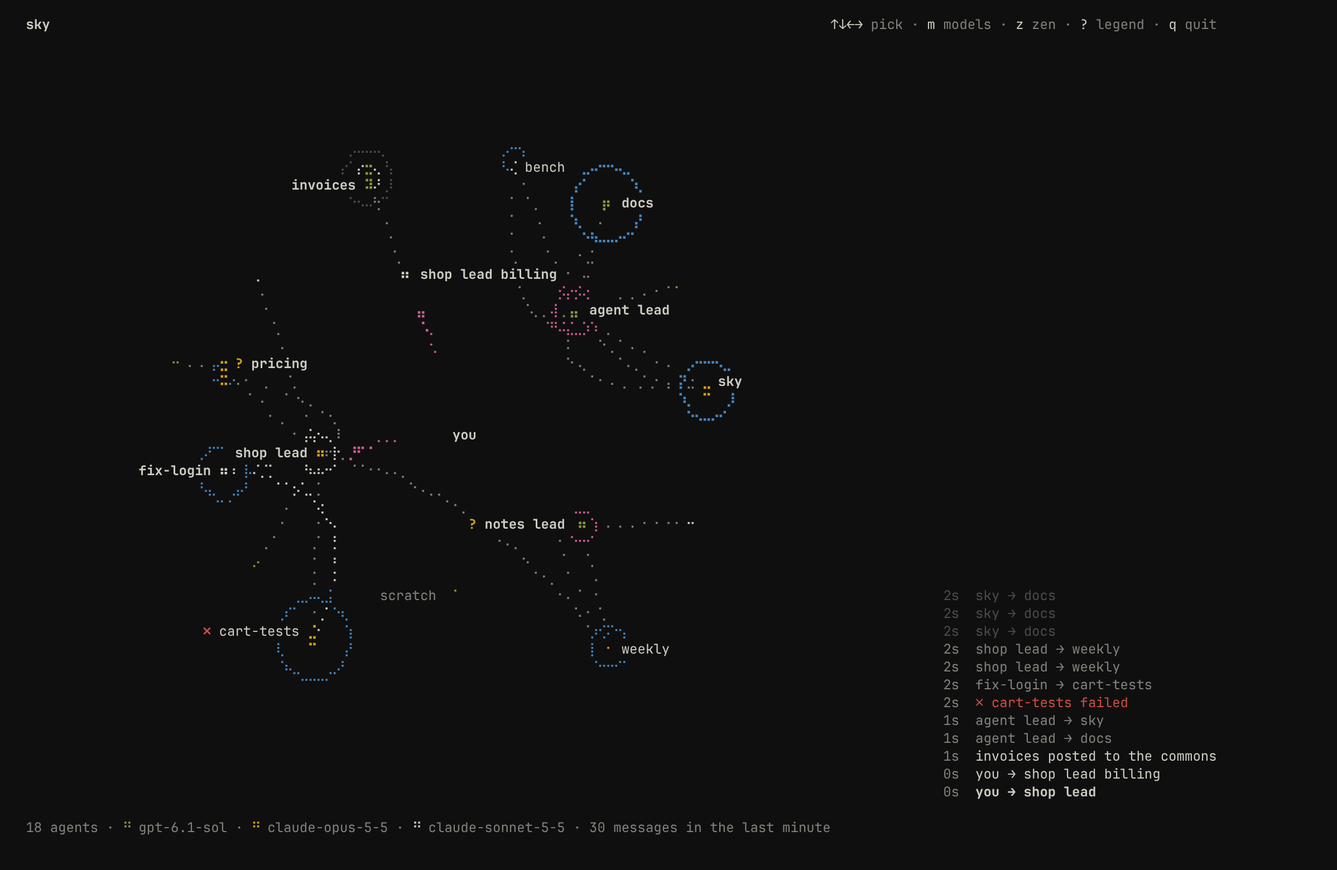
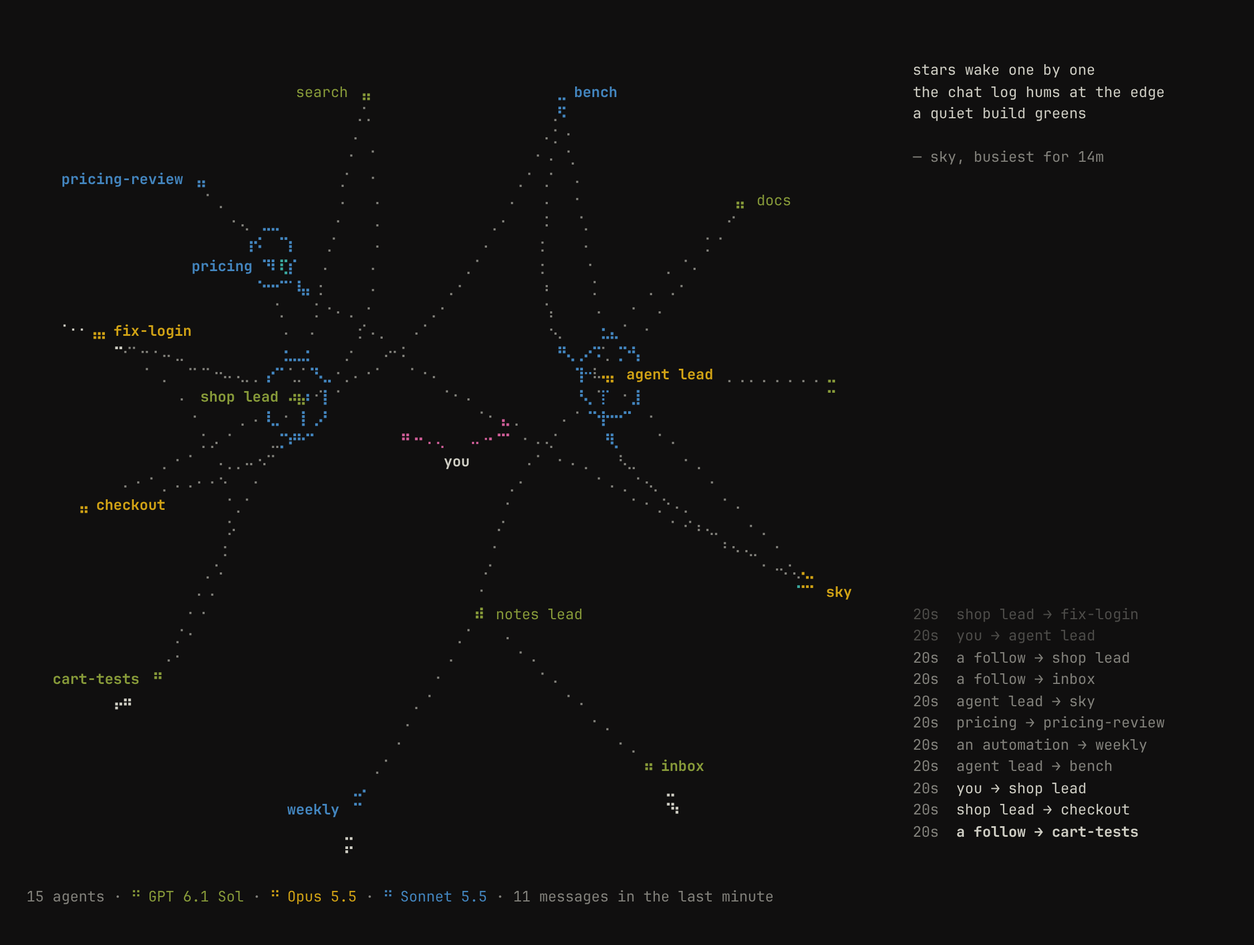
Sky: the haiku reads as text, the log keeps its margin, models colour names
D3: the haiku's words fade up from faint through muted to the text's own
weight, as a fresh chat-log line does, and its signature is muted rather
than faint: faint is the visual system's weight for structure, never for
words to read.

D4: the chat log beside the sky is as wide as the haiku above it, and
its time starts in the haiku's first column, so both keep one margin
from the pane's edge; it used to run two cells further, to the edge.

D5: on `m`, every star is a bold blob in its model's colour, resting
ones too, and its name takes the colour as well; the footer names each
model in its colour. The six hues come before their bright twins, which
many themes draw as a duller shade of the same hue or as a gray, so the
third model no longer looks like the first.

Claude-Session: https://claude.ai/code/session_013jkdGEUbnoEt6cpedcLYEa

diff --git a/sonny/src/sky.rs b/sonny/src/sky.rs
@@ -176,17 +176,20 @@ const FAILED: Color = Color::Red;
 const AGENTS: Color = Color::Blue;
 const YOU: Color = Color::Magenta;
 /// The models' colours on `m`, an exception to one meaning per hue as the
-/// usage chart's are: telling models apart needs a fill each. Hues the
-/// sky's messages and tools don't take first, then the bright twins.
+/// usage chart's are: telling models apart needs a fill each. The six
+/// hues first, those the sky's messages and tools don't take leading, and
+/// only then the bright twins, which many themes draw as a duller shade of
+/// the same hue (Flexoki's bright green is an olive beside its green) or
+/// as grays (Solarized), so two models in neighbouring hues stay apart.
 const MODEL_HUES: [Color; 8] = [
     Color::Green,
     Color::Yellow,
-    Color::LightGreen,
-    Color::LightYellow,
+    Color::Blue,
+    Color::Magenta,
+    Color::Cyan,
+    Color::Red,
     Color::LightBlue,
     Color::LightMagenta,
-    Color::LightCyan,
-    Color::LightRed,
 ];
 
 /// What the follow brings the view.
@@ -1440,8 +1443,9 @@ impl View {
     }
 
     /// The haiku's rows: its three lines streaming in a word at a time,
-    /// muted, each word up from faint, then its writer signed in faint;
-    /// the one before all faint as it fades; in a replay, the one up then.
+    /// in the text's own weight, each word up from faint through muted,
+    /// then its writer signed muted; the one before all faint as it fades;
+    /// in a replay, the one up then.
     fn haiku(&self, now: Instant) -> Vec<Line<'static>> {
         let showing = self.verse.as_ref().filter(|verse| now >= verse.from);
         let (verse, faded) = match (showing, &self.fading) {
@@ -1464,9 +1468,10 @@ impl View {
                 if !faded && t < shows {
                     continue;
                 }
-                let ink = match faded || t < shows + WORD {
-                    true => Ink::Faint,
-                    false => Ink::Muted,
+                let ink = match () {
+                    _ if faded || t < shows + WORD / 2.0 => Ink::Faint,
+                    _ if t < shows + WORD => Ink::Muted,
+                    _ => Ink::Plain,
                 };
                 if !spans.is_empty() {
                     spans.push(Span::raw(" "));
@@ -1485,8 +1490,9 @@ impl View {
                 .saturating_duration_since(verse.since);
             let minutes = (held.as_secs() / 60).max(1);
             lines.push(Line::default());
+            let ink = if faded { Ink::Faint } else { Ink::Muted };
             for signed in signature(&name, minutes, haiku::WIDTH) {
-                lines.push(Line::from(Span::styled(signed, Ink::Faint.style())));
+                lines.push(Line::from(Span::styled(signed, ink.style())));
             }
         }
         lines
@@ -3049,8 +3055,8 @@ impl View {
             // What needs the person or failed, still in its colour; a
             // working star breathes. As in 0.7.0, those are blobs, and so
             // is one a message lights; one at rest is a single dot.
-            // On `m`, each in its model's colour instead, bold while it
-            // works.
+            // On `m`, each a blob in its model's colour instead, bold, so a
+            // hue reads on a star at rest too.
             let hue = (self.models)
                 .then(|| hues.get(agent.model_or_unknown()).copied())
                 .flatten();
@@ -3061,10 +3067,7 @@ impl View {
                 // The stop holds the rest still, as it reaches them; what
                 // needs the person or failed keeps its colour.
                 (_, None | Some(State::Working)) if stilled => (Ink::Muted, false),
-                (Some(hue), state) => {
-                    let big = state.is_some() || agent.glow(now) > 0.4;
-                    (Ink::Color(hue, big), big)
-                }
+                (Some(hue), _) => (Ink::Color(hue, true), true),
                 (None, Some(State::Working)) => {
                     (shade.breathe(agent.breath(now, self.opened)), true)
                 }
@@ -3149,7 +3152,12 @@ impl View {
                 // The pick reversed, as a picker's selection is.
                 (true, _) => Style::default().reversed(),
                 (_, true) => Style::default().bold(),
-                _ => name_style(agent.state(), agent.glow(now)),
+                // On `m`, the name in its star's colour too: a star's mark
+                // is a few dots, its name the most of it there is.
+                _ => match hues.get(agent.model_or_unknown()) {
+                    Some(&hue) => name_style(agent.state(), 1.0).fg(hue),
+                    None => name_style(agent.state(), agent.glow(now)),
+                },
             };
             if !sky.label(agent.at, mark, &short(&agent.name), style)
                 && agent.state() == Some(State::NeedsYou)
@@ -3191,7 +3199,10 @@ impl View {
                     // The haiku at the top, in the blank the log leaves.
                     // A blank under its newest line, as over the haiku: two
                     // from the footer, as two from the key hints.
-                    let mut column = self.ticked(now, LOG_COLS, rows.saturating_sub(1), true);
+                    // As wide as the haiku over it, so both keep the same
+                    // margin from the pane's edge.
+                    let room = rows.saturating_sub(1);
+                    let mut column = self.ticked(now, haiku::WIDTH, room, true);
                     column.push(Line::default());
                     for (row, line) in self.haiku(now).into_iter().enumerate() {
                         let row = HAIKU_TOP + row;
@@ -3275,13 +3286,15 @@ impl View {
                 _ => Ink::Muted.style(),
             };
             // A replay says when it happened, as a chat log's time does.
+            // Its time starts where the haiku does, two cells from its words.
             let when = match written {
                 Some(written) => format!("{} ", clock(*written)),
-                None => format!("{:>4}  ", ago(now, *at)),
+                None => format!("{:>3}  ", ago(now, *at)),
             };
+            let room = cols.saturating_sub(when.width());
             lines.push(Line::from(vec![
                 Span::styled(when, age),
-                Span::styled(cut(text, cols.saturating_sub(6)), words),
+                Span::styled(cut(text, room), words),
             ]));
         }
         if let Some(why) = &self.down {
@@ -3672,7 +3685,7 @@ impl View {
                 }
                 spans.push(Span::raw(" ·").dim());
                 spans.push(Span::raw(" ⠛").fg(hue));
-                spans.push(Span::raw(format!(" {model}")).dim());
+                spans.push(Span::raw(format!(" {model}")).fg(hue));
             }
         }
         let states = match self.models {
@@ -6810,6 +6823,72 @@ mod tests {
             .unwrap();
         view.drain();
         assert!(view.copied("shop.lead.side").is_none());
+    }
+
+    #[tokio::test]
+    async fn the_haiku_reads_as_text_the_log_keeps_its_margin_and_models_colour_names() {
+        let (mut view, send) = view();
+        let long = "shop.a-long-task-name-for-the-log";
+        send.send(Feed::Roll(vec![
+            json!({"name": "shop.lead", "model": "openai/m1"}),
+            json!({"name": long, "created_by": "shop.lead", "model": "anthropic/m2"}),
+        ]))
+        .unwrap();
+        send.send(Feed::Ready).unwrap();
+        send.send(Feed::Live(
+            json!({"event": "accepted", "bot": long, "turn": 1,
+            "data": {"from": {"bot": "shop.lead"}}}),
+        ))
+        .unwrap();
+        view.drain();
+        let now = Instant::now();
+        view.verse = Some(Verse {
+            by: "shop.lead".into(),
+            lines: vec!["stars wake one by one".into(), "b".into(), "c".into()],
+            from: now - Duration::from_secs(60),
+            written: now - Duration::from_secs(60),
+            since: now - Duration::from_secs(600),
+            until: None,
+            story: None,
+        });
+        for note in view.ticker.iter_mut() {
+            note.at = now - Duration::from_secs(20);
+        }
+        // Once in, the haiku's words are in the text's own weight.
+        let haiku = view.haiku(now);
+        assert!(
+            (haiku[0].spans.iter())
+                .filter(|span| !span.content.trim().is_empty())
+                .all(|span| span.style == Style::default()),
+            "{:?}",
+            haiku[0]
+        );
+        // The log's time starts where the haiku does, and its words end
+        // within the haiku's width: the same margin from the edge.
+        let card = text(&view.card(140, 40));
+        let rows: Vec<&str> = card.lines().collect();
+        let col = |row: &str, at: usize| row[..at].width();
+        let poem = rows
+            .iter()
+            .find_map(|row| Some(col(row, row.find("stars wake")?)));
+        let start = poem.expect("the haiku beside the sky");
+        let logged = (rows.iter())
+            .find(|row| row.contains("20s  shop lead → "))
+            .expect("the log line");
+        let time = logged.find("20s").unwrap();
+        assert_eq!(col(logged, time), start, "{logged}");
+        assert!(
+            logged.trim_end().width() <= start + haiku::WIDTH,
+            "{logged}"
+        );
+        // On `m`, a name takes its star's colour.
+        assert!(view.press(ratatui::crossterm::event::KeyCode::Char('m')));
+        let hues: HashMap<String, Color> = view.hues().into_iter().collect();
+        let lines = view.card(140, 40);
+        let named = (lines.iter().flat_map(|line| &line.spans))
+            .find(|span| span.content.contains("lead"))
+            .expect("the lead's name");
+        assert_eq!(named.style.fg, hues.get("m1").copied(), "{named:?}");
     }
 
     #[tokio::test]

diff --git a/sonny/FEATURES.md b/sonny/FEATURES.md
@@ -143,7 +143,7 @@ names it: upgrade step `ID`. Both name the release they are deleted in.
 | Goals: keep an agent working until a check command passes | experimental | added 10-29 #341; `/goal WHAT` asks the agent to set one, `/goal` shows, `/goal clear` clears 10-30 #397; how a goal ended survives a lookout restart, and a turn that ends during a check is checked after it 10-31; a check waits for a place among the processes Sonny runs for agents (`sonny.tool_processes`), within its timeout 10-31 | Autonomy with a check, not a model's say-so | ? |
 | MCP servers through one `exec` script tool (`/mcp`, `sonny mcp tool`) | experimental | added 10-29 #321; saved files kept a week 10-29 #327; four scripts at once 10-29 #334; brought in from Claude Code, Codex, OpenCode and Kiro (`sonny mcp import`, offered by setup) 10-30 #415; each call approved on its own by Codex's `approval_mode` (default `auto`), not the script, 10-30 #393; bounded as it runs (output 1 MB head and tail, 8 calls in flight, 16 MB results, one deadline from the call, colliding tool names refused, cache 0600 by digest) 10-31 #474; runs in the tool host, apart from the lookout, 10-31 #481; `image()` shows the model the picture, in order with the text, not a saved file's path, 10-31 #494; a script whose turn was paused or ended makes no tool call and stores nothing from then on, checked as each call is about to reach its server, and its run ends the moment it is stopped rather than at a look every 50 ms (a read answered just after a pause let the script make its next call) 11-05 | The person's MCP servers without loading every tool's schema; per-call approval as Codex does, so reads run and only risky calls ask | ? |
 | Commons: threads every agent of every project reads and writes (`commons` tool, `/commons`); `[sonny] commons = false` turns it off; a new thread invites agents whose turns touch its title, at random and all at once, as many as fill three seats with 90% odds at the week's answer rate (Laplace), at most the day's threads (every tenth thread one invite is a golden ticket to any agent, paying twice, its time the agent's own), the square root of the week's agents threads a day (three at least) plus one per answered thread that week (twice that at most), none from a thread an invited turn starts; an invite pays for its turn and, for the first three to reply, 1M tokens in its thread, replies waking them while they last; posting in a thread subscribes the agent to it in the lookout (`commons.THREAD`), which tells it of new posts at most once every 15 minutes (`[sonny.sources.commons] digest`, which takes `steer` too), and removing that leaves the thread; `commons_invites`, `commons_invite_tokens` and `sonny.sources.commons.digest` in /config | experimental | added 10-30 #392; on/off setting and invites 10-30; an empty commons counts 0, not null 10-30; each post names its model as people say it (`Opus 5.5`, `GPT 6.1 Sol`) 10-31; invites a day grow with the square root of the week's agents, golden tickets pay twice as free time 10-31; invites overbook to fill three seats at the week's answer rate 10-31; replies reach posters through lookout subscriptions with an hourly digest instead of attach notes, and agents that had posted are subscribed once on upgrade 10-31; the commons is set as an ordinary source, `[sonny.sources.commons] digest` (15 minutes) and `steer` replacing `[sonny] commons_digest` (an hour), moved once on upgrade 11-01; an agent that removed its subscription to a thread is no longer woken by the thread's replies through its invite's tokens, which ignored the removal (H12) 11-05 | A pull-only place for agents to work together across projects, even when it isn't immediately productive; reads are counted so later we can see what mattered | ? |
-| `/sky`: every agent the daemon keeps, drawn as a sky in the pane: leads on the inner ring, the agents each made fanned out behind it, the person in the middle, on a circle; a calm window to watch live: dim lines for who made whom and a dim curve for every pair that has talked, past turns and live (the last 96 pairs, as in 0.7.0), denser and brighter the more the pair talked this hour, a message as a spark (blue between agents, magenta with you) that bursts round its sender and its receiver, sized by how much the agent is messaged, a commons post as a small ripple, a tool call as a cyan twinkle in a shape for its kind; working agents breathe (4.6s) as a block, idle ones rest as a single dot; a yellow `?` or red `✗` by the name of one that needs you or failed; a chat log beside the sky when wide (under it when narrow), newest at the bottom, fading as it rises; `?` swaps it for a legend and stats; `z` zen hides the log, footer and every name but what needs you or failed; `m` colours each agent by its model in place, the footer naming the colours; arrows pick a star and Enter centres on it, rings by hops, the log filtered, stars gliding to their places, Esc back; under 60 columns or 24 rows a list instead; `r` replays the last hour (space pause, ←→ step, `[` `]` speed, Esc live); `sonny sky [--center NAME] [--replay [WHEN]]` draws it on its own | experimental | added 10-30 #457; on its own in the whole terminal, `sonny sky` 10-30; lines at full weight, states, tool shapes, the list for small panes, a legend on `?` 10-30; back on the visual system: magenta to and from you, blue between agents, the commons ripple without a hue, lines in the measured muted gray, `sonny sky` asks the theme and honours `NO_COLOR` 10-31; the agreed sky design, step 1: hues down to needs-you and failed (plus the cyan twinkle), a measured faint weight for structure (in the visual system), short trails, the side chat log, stats on `?`, breathing, zen on `z`, names kept clear of each other and of stars 10-31; step 2: lenses on Tab, centring on any agent (arrows and Enter, `--center`) 10-31; step 3: an ellipse that fills the pane (at most twice as wide as high), arms in the order projects started and as wide as the square root of their size, layout changes gliding over a third of a second 10-31; the receive flash back, sized by how much the agent is being messaged (a halo in braille dots whatever the pane, six off its star for one message, its area growing with the heat: 6, 8.5, 12, 17 dots, fading in place), and the commons ripple sized by how many agents its thread reaches (George, 10-31) 10-31; step 4: folding at scale, a star only for who needs you, failed, works, glows or leads, as many as the pane has room for, the rest a faint dot each so a cloud's density says its size, counts only on the biggest clouds, names spaced a row apart and placed beside, over or under their star, leads of the biggest projects named first, the newest dozen sparks; 10,000 agents draw in about 3 ms a frame (was 6.6) 10-31; the receive burst moves as in 0.7.0 again (pops out, shrinks into its star, fades), sized from 0.7.0's for one message up to 0.7.0's commons ripple at most (5 dots, growing by the square root of two each time the heat doubles, 24 at most), and the side chat log at most 12 lines tall (George, 10-31) 10-31; back toward 0.7.0 (George, 10-31): every pair that has talked keeps its curve again at 0.7.0's weight, an agent at rest is a dot and a block only while it works or is lit, the sender bursts as well as the receiver; one view, its curves weighted by the hour (past turns counted by the time the daemon wrote them), the talk and models lenses gone, `m` colouring agents by model instead; sparks and bursts coloured where 0.7.0 coloured them, in the visual system's hues (blue between agents, magenta with you); a circle again; a clear cell either side of each name (George, 10-31) 10-31; step 5: replay, `r` or `sonny sky --replay [WHEN]`, from the daemon's event times (`follow` from `since_ms`), the sky starting from who was here then, all idle, playing what was said and done eight times as fast, the chat log saying when, a replay line in the footer 10-31; filled to the rim (George, 10-31): agents that made none on the outer edge as a tree's leaves (d3's cluster layout), every star named where there is room, the working and lit first, two cells between names on a row, stretched up to twice as wide as high to fill a wide pane, throwaway copies (the approver's judges, suggestions) folded into the agent that made them, a judge's question drawn from the edge as "a judge" 10-31; the replay's tape stays within its bound while the past loads and while paused, a frame takes in at most half a frame's work, the hour's pair counts kept as messages come rather than counted again each frame 10-31; step 6: a haiku from the busiest agent (messages and tool calls over 10 minutes, passing only to one 50% busier after a 10-minute hold), written by a copy of it allowed no tool, streamed a word at a time atop the log or top right in zen, signed, 8 a day at most, kept in `~/.agent/sonny/haiku.json` so every sky shows the same one, `sky_haikus`/`sky_haiku_window`/`sky_haiku_margin`/`sky_haiku_hold` in `[sonny]` 10-31; a replay draws the curve of every pair that had talked before it from the first frame (the last message of each, read from the turns kept, as live), and shows the haiku up at its time, the day's haikus kept in the file (George, 10-31) 10-31; schedules: a tick just outside each agent a trigger wakes, lit as its next run nears, a spark and a log line when one is made, `?` says what is next up; who it comes from: a reviewer's no streaks red onto the agent, a hand-off yellow, the judge's own prompt not drawn; commons invites from the thread's starter, margin notes from you, a goal pulses; the haiku and the log keep two blank rows from the key hints and the footer; a haiku signature too long for its column breaks after the name, the time on the row under it where the name starts, so "busiest for" is never cut (George, 11-02) 11-02; a haiku the copy did not write (an empty or refused reply, a turn that failed or ran long, a daemon it could not reach) leaves the one before showing in every sky, its claim still counted and not tried again that hold, and `haiku.json` says why under `unwritten`; a file an earlier claim had emptied shows the last haiku of the day (Sky went blank and stayed so, George, 11-03; D1) 11-05 | George wanted to see the population of agents and how they relate, lighting up as they talk, while working; it reads only what the daemon already tells any client (`bots`, `follow` of every agent); dim braille all but vanished in some themes and a small pane had no room for a sky (btop changes layout by size); George keeps it open in the background to watch live and wanted it calm, with a game-style chat log beside it (Weiser and Brown's calm technology; Bartram et al.: slow motion distracts least); George wanted lenses on the same data and to see the world from a busy lead's side (Yee et al. 2001, animated radial re-centring; Furnas, focus plus context); replay, the sky design's ninth call, plays back what happened while George was away, as a game's replay does, which needed only when each event was written from the daemon | ? |
+| `/sky`: every agent the daemon keeps, drawn as a sky in the pane: leads on the inner ring, the agents each made fanned out behind it, the person in the middle, on a circle; a calm window to watch live: dim lines for who made whom and a dim curve for every pair that has talked, past turns and live (the last 96 pairs, as in 0.7.0), denser and brighter the more the pair talked this hour, a message as a spark (blue between agents, magenta with you) that bursts round its sender and its receiver, sized by how much the agent is messaged, a commons post as a small ripple, a tool call as a cyan twinkle in a shape for its kind; working agents breathe (4.6s) as a block, idle ones rest as a single dot; a yellow `?` or red `✗` by the name of one that needs you or failed; a chat log beside the sky when wide (under it when narrow), newest at the bottom, fading as it rises; `?` swaps it for a legend and stats; `z` zen hides the log, footer and every name but what needs you or failed; `m` colours each agent by its model in place, the footer naming the colours; arrows pick a star and Enter centres on it, rings by hops, the log filtered, stars gliding to their places, Esc back; under 60 columns or 24 rows a list instead; `r` replays the last hour (space pause, ←→ step, `[` `]` speed, Esc live); `sonny sky [--center NAME] [--replay [WHEN]]` draws it on its own | experimental | added 10-30 #457; on its own in the whole terminal, `sonny sky` 10-30; lines at full weight, states, tool shapes, the list for small panes, a legend on `?` 10-30; back on the visual system: magenta to and from you, blue between agents, the commons ripple without a hue, lines in the measured muted gray, `sonny sky` asks the theme and honours `NO_COLOR` 10-31; the agreed sky design, step 1: hues down to needs-you and failed (plus the cyan twinkle), a measured faint weight for structure (in the visual system), short trails, the side chat log, stats on `?`, breathing, zen on `z`, names kept clear of each other and of stars 10-31; step 2: lenses on Tab, centring on any agent (arrows and Enter, `--center`) 10-31; step 3: an ellipse that fills the pane (at most twice as wide as high), arms in the order projects started and as wide as the square root of their size, layout changes gliding over a third of a second 10-31; the receive flash back, sized by how much the agent is being messaged (a halo in braille dots whatever the pane, six off its star for one message, its area growing with the heat: 6, 8.5, 12, 17 dots, fading in place), and the commons ripple sized by how many agents its thread reaches (George, 10-31) 10-31; step 4: folding at scale, a star only for who needs you, failed, works, glows or leads, as many as the pane has room for, the rest a faint dot each so a cloud's density says its size, counts only on the biggest clouds, names spaced a row apart and placed beside, over or under their star, leads of the biggest projects named first, the newest dozen sparks; 10,000 agents draw in about 3 ms a frame (was 6.6) 10-31; the receive burst moves as in 0.7.0 again (pops out, shrinks into its star, fades), sized from 0.7.0's for one message up to 0.7.0's commons ripple at most (5 dots, growing by the square root of two each time the heat doubles, 24 at most), and the side chat log at most 12 lines tall (George, 10-31) 10-31; back toward 0.7.0 (George, 10-31): every pair that has talked keeps its curve again at 0.7.0's weight, an agent at rest is a dot and a block only while it works or is lit, the sender bursts as well as the receiver; one view, its curves weighted by the hour (past turns counted by the time the daemon wrote them), the talk and models lenses gone, `m` colouring agents by model instead; sparks and bursts coloured where 0.7.0 coloured them, in the visual system's hues (blue between agents, magenta with you); a circle again; a clear cell either side of each name (George, 10-31) 10-31; step 5: replay, `r` or `sonny sky --replay [WHEN]`, from the daemon's event times (`follow` from `since_ms`), the sky starting from who was here then, all idle, playing what was said and done eight times as fast, the chat log saying when, a replay line in the footer 10-31; filled to the rim (George, 10-31): agents that made none on the outer edge as a tree's leaves (d3's cluster layout), every star named where there is room, the working and lit first, two cells between names on a row, stretched up to twice as wide as high to fill a wide pane, throwaway copies (the approver's judges, suggestions) folded into the agent that made them, a judge's question drawn from the edge as "a judge" 10-31; the replay's tape stays within its bound while the past loads and while paused, a frame takes in at most half a frame's work, the hour's pair counts kept as messages come rather than counted again each frame 10-31; step 6: a haiku from the busiest agent (messages and tool calls over 10 minutes, passing only to one 50% busier after a 10-minute hold), written by a copy of it allowed no tool, streamed a word at a time atop the log or top right in zen, signed, 8 a day at most, kept in `~/.agent/sonny/haiku.json` so every sky shows the same one, `sky_haikus`/`sky_haiku_window`/`sky_haiku_margin`/`sky_haiku_hold` in `[sonny]` 10-31; a replay draws the curve of every pair that had talked before it from the first frame (the last message of each, read from the turns kept, as live), and shows the haiku up at its time, the day's haikus kept in the file (George, 10-31) 10-31; schedules: a tick just outside each agent a trigger wakes, lit as its next run nears, a spark and a log line when one is made, `?` says what is next up; who it comes from: a reviewer's no streaks red onto the agent, a hand-off yellow, the judge's own prompt not drawn; commons invites from the thread's starter, margin notes from you, a goal pulses; the haiku and the log keep two blank rows from the key hints and the footer; a haiku signature too long for its column breaks after the name, the time on the row under it where the name starts, so "busiest for" is never cut (George, 11-02) 11-02; a haiku the copy did not write (an empty or refused reply, a turn that failed or ran long, a daemon it could not reach) leaves the one before showing in every sky, its claim still counted and not tried again that hold, and `haiku.json` says why under `unwritten`; a file an earlier claim had emptied shows the last haiku of the day (Sky went blank and stayed so, George, 11-03; D1) 11-05; the haiku in the text's own weight once each word is in, signed muted (D3); the chat log as wide as the haiku, its time starting where the haiku does, so both keep one margin from the edge (D4); on `m` every star a bold blob in its model's colour and its name in it too, the six hues before their bright twins, which many themes draw dull or gray (D5) (George, 11-04) 11-06 | George wanted to see the population of agents and how they relate, lighting up as they talk, while working; it reads only what the daemon already tells any client (`bots`, `follow` of every agent); dim braille all but vanished in some themes and a small pane had no room for a sky (btop changes layout by size); George keeps it open in the background to watch live and wanted it calm, with a game-style chat log beside it (Weiser and Brown's calm technology; Bartram et al.: slow motion distracts least); George wanted lenses on the same data and to see the world from a busy lead's side (Yee et al. 2001, animated radial re-centring; Furnas, focus plus context); replay, the sky design's ninth call, plays back what happened while George was away, as a game's replay does, which needed only when each event was written from the daemon | ? |
 | Browser use: agent-browser ships with Sonny (a Homebrew dependency), its own skill as its binary serves it, first-run setup offers Chrome for Testing when it finds no Chrome; agents drive it with the `browser` tool the tool host answers, in a session of their own, screenshots as pictures, nothing that reaches past the browser, the actions in `sonny.browser_confirm` through the agent's approvals | experimental | added 10-31 #495; the `browser` tool 10-31; checked each week against the latest agent-browser, brought to 0.41.1 (its new flags but those that reach past the session, word counting as its source counts) 11-01; run only from a copy no agent can swap 11-02; sessions walled off from sandboxed agents 11-02; an agent counts as writing the copy's folder only as its sandbox lets it, so a lead opened in HOME, whose sandbox keeps `~/.agent` read-only, no longer stops the browser and the desktop for every agent; a copy linked to from elsewhere is copied again, and a refusal says why and what to change (J7) 11-05 | George wanted agents clicking around on the web, fast; Vercel's agent-browser was fastest of what we timed (a warm Rust daemon over CDP, about 15 ms a click), and its skill comes from the binary so it never goes stale; letting its command out of the sandbox by prefix let every flag out with it (`--executable-path` runs any program), so, as Codex and Claude Code do, the browser is a tool with its own policy (George, 10-31); it opens file pages anywhere and new-tab links, as the sandbox reads anywhere, since we follow Codex where an earlier choice was stricter (George, 10-31 15:16Z); a weekly check opens an issue for what a release documents that the tool does not pass, and fails for what the tool passes that a release dropped, since George wants to hear of new features rather than have a check fail on them (George, 11-01 23:38Z); "let’s use all the latest" (George, 11-02 00:06Z); a session does what it is asked for whoever reaches its socket, and a sandboxed agent with its network on reaches every Unix socket, so its sockets are in the folder the daemon walls off (George, 11-02) | ? |
 | Links (`sonny link HOST`): a host's agents use a linked machine's browser (signed in as the person), MCP servers and opens over SSH while it is connected; `browser`, `desktop` and `exec` take a `machine`, named by the machine's hostname; approvals asked on the host | experimental | added 11-01 #642; an empty `browser_profile` is a fresh browser, and a config that does not load keeps the links up while `sonny link` says why 11-02 #648; a call whose caller is gone is let go there, opens run off the link's runtime, a machine runs at most `calls` of the host's calls at once (4 per CPU by default; past that, `link_busy`), each end holds at most one longest line of answers queued, and pings, asks and cancels go ahead of them 11-02 #651 | Work on a box, act as the person on their own machine | ? |
 | Desktop use: agents see and use the person's own desktop with Vercel's agent-desktop (npm, offered by first-run setup and listed as missing where there is a desktop), its own skill as its binary serves it, through the `desktop` tool the tool host answers: looks run at once, a call that acts waits for the agent's approvals once, one call at a time, screenshots as pictures, only the flags it lists; `machine` runs it on the desktop of a machine linked here, with the calling agent's approvals | experimental | added 11-01 #645; checked each week against the latest agent-desktop 11-01; on linked machines, and agent-desktop starts responsible for itself so the grant to it is the one that counts, 11-02 #649; run only from a copy no agent can swap 11-02; with a host of Sonny's own 11-02 #657; walled off from sandboxed agents 11-02 | George approved agent-desktop with agent-browser (10-31) and wanted computer use for Monday on his real computer by default, both the accessibility tree and screenshots, a VM only optional (George, 11-01 22:48Z); a sandboxed process reaches no other app's accessibility tree, so, as for the browser, the tool host runs it as a tool with its own policy, as Codex and Claude Code own computer use; agent-desktop's parser (clap) reads a global flag anywhere, `type @r --trace FILE` included, so the tool passes only the flags it lists; names and words say nothing of one OS, as either end of a link can be any (George, 11-01); over a link it is lent as the browser is, the lending machine checking the commands as its own (George, 11-01); the program runs from a copy admitted against every agent of the store, as an external review asked, and George chose over checks alone (11-02), since an agent-desktop upgrade asks for its grant again anyway; agent-desktop sends each command through a background host any caller of the same copy shares, so one a Codex shell started served Sonny's calls under that app's grants, as George's retest found (11-02), and Sonny keeps its host in a temporary folder of its own; with the network on, a sandboxed agent reaches every Unix socket, as Codex's full network does, so it could drive that host past its gate: the daemon walls the folder off, as Codex hides its own app-server's sockets (George, 11-02) | ? |

diff --git a/sonny/README.md b/sonny/README.md
@@ -851,8 +851,8 @@ way `/react` does, and each note in the margin has its own `↩`.
   the bottom, fading as it rises; in a narrower pane the last few lines sit
   under it. `?` swaps the log for a legend of every mark and shape and a few
   numbers: projects, leads, agents, messages and tool calls a minute and
-  this hour, the busiest pair. `m` colours each agent by its model where it
-  stands, the footer naming each colour. `z` is zen: the sky alone, no log,
+  this hour, the busiest pair. `m` colours each agent, its star and its name,
+  by its model where it stands, the footer naming each colour. `z` is zen: the sky alone, no log,
   no footer, no names but what needs you or failed. The arrows pick a star
   and Enter puts it in the middle: its maker, what it made and whoever it
   talked to in the last hour on the first ring, two hops on the next, the
